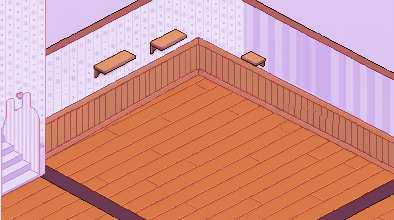
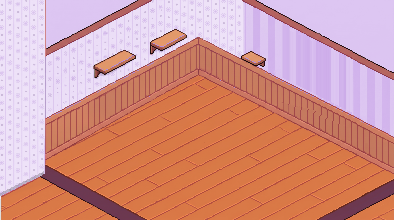
아지트 방 넷: 왼쪽 칸막이 토끼 귀 입구(계단)를 벽으로 메움
Claude-Session: https://claude.ai/code/session_01D364GEoGYvoJBQMwNFFrnm

Changed region(s): [[0.0, 0.4091, 0.1218, 0.9]]

diff --git a/azit.html b/azit.html
@@ -363,7 +363,7 @@
   // 11/24 글씨를 한글 도트 글꼴로 다시 쓴 글자 소품(_dev/azit-letter.py) — 예전 그림이 브라우저 캐시에 남지 않게 주소를 v2로(왼쪽 벽용 _L도)
   var LETTER_V2 = ['sign_snack', 'board_refuse', 'sign_meetup', 'bubble_visited', 'bubble_interior', 'bubble_poop', 'bubble_chihuahua',
     'panel_guestbook', 'stamp_regular', 'scroll_dogslife'];
-  function picV(n) { return n === 'room' ? 4 : LETTER_V2.indexOf(n.replace(/_L$/, '')) >= 0 ? 2 : 1; }   // room v4 = 크림 발바닥 방(11/24, 선반 모서리 고침)
+  function picV(n) { return /^room(_|$)/.test(n) ? 5 : LETTER_V2.indexOf(n.replace(/_L$/, '')) >= 0 ? 2 : 1; }   // 방 그림 v5 = 크림 발바닥 방·선반 모서리 고침·왼쪽 토끼 귀 입구를 벽으로(11/24, _dev/azit-close-door.py)
   var picsReady = Promise.all(picNames.map(function (n) { return loadImg(IMG + n + '.png?v=' + picV(n)).then(function (im) { if (im) pics[n] = im; }); }));
   function pic(n) { return pics[n] || null; }
   // 벽 소품은 그려진 벽 방향(face)과 다른 벽에 걸면 좌우로 뒤집는다

diff --git a/azit-sian-c.html b/azit-sian-c.html
@@ -150,7 +150,7 @@
   }
   var names = { room: 1, window_day: 1, window_night: 1, window_rain: 1, window_snow: 1 };
   Object.keys(LAYOUTS).forEach(function (k) { LAYOUTS[k].items.forEach(function (t) { names[t[0]] = 1; }); });
-  var ready = Promise.all(Object.keys(names).map(function (n) { return load(n, BASE + n + '.png?v=1'); })
+  var ready = Promise.all(Object.keys(names).map(function (n) { return load(n, BASE + n + '.png?v=' + (/^room/.test(n) ? 5 : 1)); })
     .concat(DOGS.map(function (d) { return load('dog:' + d[0], dogSrc(d[0])); })));
 
   var flipCache = {};

diff --git a/_dev/azit-close-door.py b/_dev/azit-close-door.py
@@ -1,0 +1,30 @@
+# 아지트 방 왼쪽 칸막이의 토끼 귀 모양 입구(계단)를 벽으로 메운다(2026-11-24 가르시아 "토끼 형태의 입구를 없애고 벽으로 만들어 줘").
+# 칸막이 앞면(x 0~43)은 세로 줄무늬 벽지 — 같은 줄에서 15점마다 되풀이되니(방 넷 모두), 입구 위쪽 벽지를 아래로 이어 붙이고
+# 맨 아래는 벽지를 조금 어둡게 한 걸레받이(3점). 칸막이 아래 끝 = 바닥과 만나는 줄 y = 174 + (44 - x) / 2(라일락 방에서 잰 값).
+# 쓰는 법: python3 _dev/azit-close-door.py [icons/azit-room]   — room·room_pink·room_lilac·room_night를 고쳐 씀
+import os, sys
+import numpy as np
+from PIL import Image
+
+DIR = sys.argv[1] if len(sys.argv) > 1 else "icons/azit-room"
+PERIOD, SRC0, START, X1 = 15, 30, 80, 44   # 되풀이 칸 · 본뜰 벽지 첫 줄 · 메우기 시작 줄 · 칸막이 오른쪽 끝(이 열부터는 테두리라 그대로)
+
+
+def close(name):
+    p = os.path.join(DIR, name + ".png")
+    a = np.asarray(Image.open(p).convert("RGBA")).copy()
+    for x in range(0, X1):
+        yb = int(round(174 + (44 - x) / 2.0))
+        for y in range(START, min(yb, a.shape[0])):
+            src = SRC0 + (y - SRC0) % PERIOD
+            col = a[src, x, :3].astype(float)
+            if y >= yb - 3:
+                col = col * 0.8   # 걸레받이
+            a[y, x, :3] = col.clip(0, 255).astype(np.uint8)
+            a[y, x, 3] = 255
+    Image.fromarray(a).save(p, optimize=True)
+    print("고침:", p)
+
+
+for n in ("room", "room_pink", "room_lilac", "room_night"):
+    close(n)
